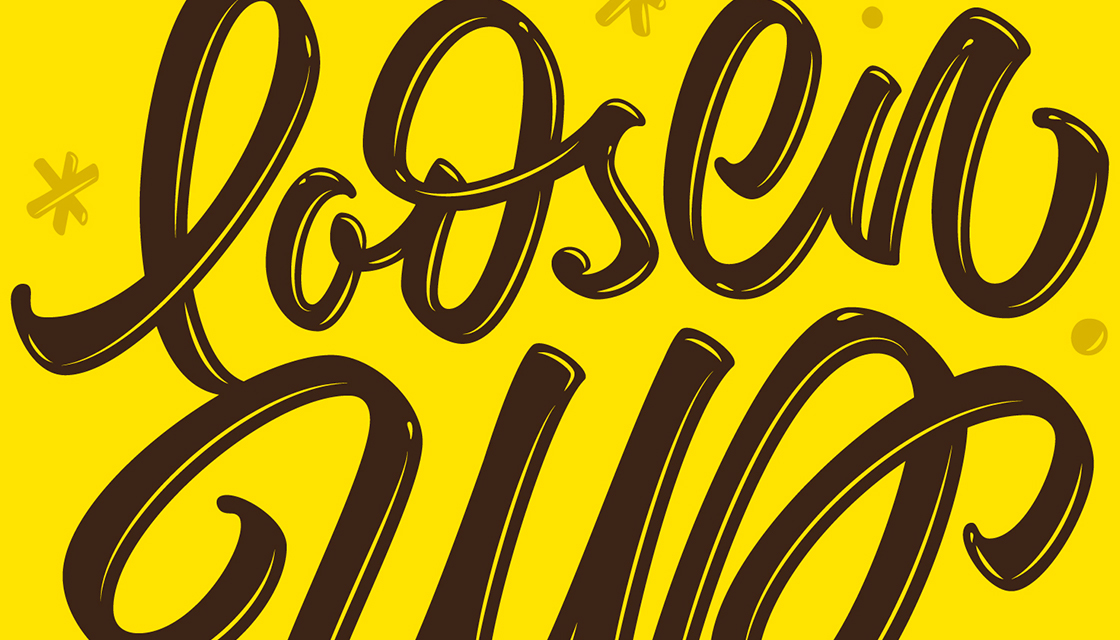
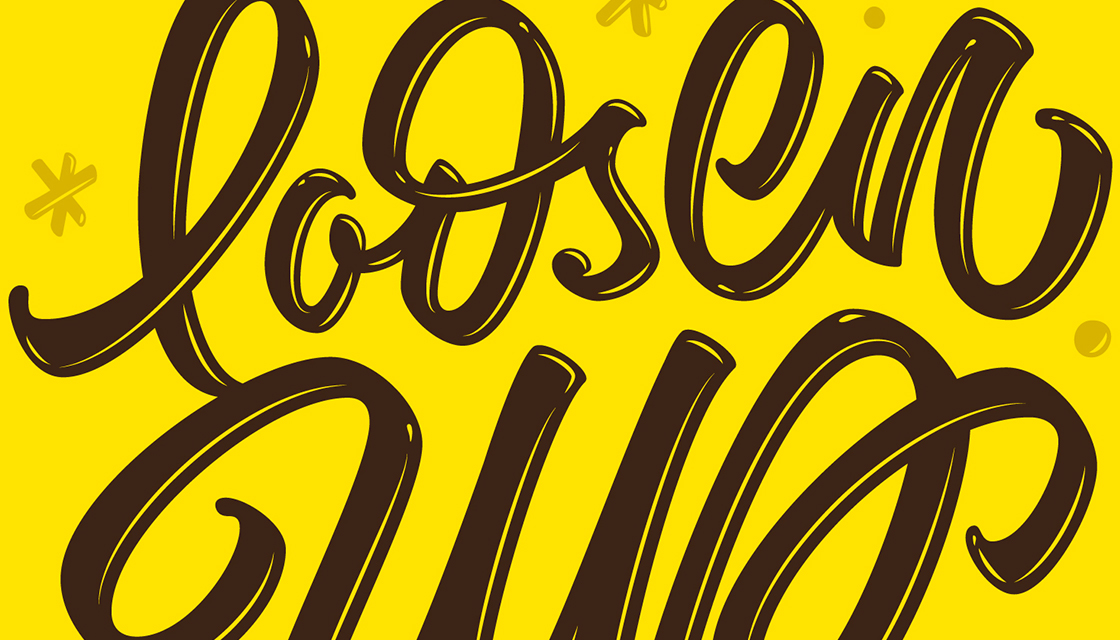
react-gtm, update email server, link style changes

diff --git a/client/src/pages/about.jsx b/client/src/pages/about.jsx
@@ -182,7 +182,7 @@ function LinkSection({ isMobile, title, src, data }) {
                   target="_blank"
                   rel="noopener noreferrer"
                 >
-                  Instagram
+                  <span className="underline">Instagram</span>
                 </a>
               </li>
               <li>
@@ -191,7 +191,7 @@ function LinkSection({ isMobile, title, src, data }) {
                   target="_blank"
                   rel="noopener noreferrer"
                 >
-                  Behance
+                  <span className="underline">Behance</span>
                 </a>
               </li>
               <li>
@@ -200,7 +200,7 @@ function LinkSection({ isMobile, title, src, data }) {
                   target="_blank"
                   rel="noopener noreferrer"
                 >
-                  Dribbble
+                  <span className="underline">Dribbble</span>
                 </a>
               </li>
             </ul>
@@ -253,7 +253,7 @@ function LinkSection({ isMobile, title, src, data }) {
                 target="_blank"
                 rel="noopener noreferrer"
               >
-                Instagram
+                <span className="underline">Instagram</span>
               </a>
             </li>
             <li>
@@ -262,7 +262,7 @@ function LinkSection({ isMobile, title, src, data }) {
                 target="_blank"
                 rel="noopener noreferrer"
               >
-                Behance
+                <span className="underline">Behance</span>
               </a>
             </li>
             <li>
@@ -271,7 +271,7 @@ function LinkSection({ isMobile, title, src, data }) {
                 target="_blank"
                 rel="noopener noreferrer"
               >
-                Dribbble
+                <span className="underline">Dribbble</span>
               </a>
             </li>
           </ul>
@@ -437,12 +437,11 @@ function Signature({ isMobile }) {
                 marginBottom: theme.sizes.spacingV3
               }}
             >
-              Thank you for reading a bit about my process. If you have a
-              project consideration or just have a question, I'd be glad to
-              help...{" "}
+              Thank you for reading a bit about my process. If you want to work
+              together or just have a general question, I'd be glad to help!{" "}
               <Link to="/contact" onClick={() => window.scrollTo(0, 0)}>
                 {" "}
-                Come say hi.
+                <span className="underline">Get in touch</span>
               </Link>
             </p>
           </div>
@@ -512,12 +511,11 @@ function Signature({ isMobile }) {
                 marginBottom: theme.sizes.spacingV3 + 10
               }}
             >
-              Thank you for reading a bit about my process. If you have a
-              project consideration or just have a question, I'd be glad to
-              help...{" "}
+              Thank you for reading a bit about my process. If you want to work
+              together or just have a general question, I'd be glad to help!{" "}
               <Link to="/contact" onClick={() => window.scrollTo(0, 0)}>
                 {" "}
-                Come say hi.
+                <span className="underline">Get in touch</span>
               </Link>
             </p>
           </div>

diff --git a/client/src/App.css b/client/src/App.css
@@ -9,7 +9,7 @@ textarea {
   height: 40px;
   font-family: "PT Serif", serif;
   font-size: 19px;
-  margin-bottom: 25px;
+  margin-bottom: 30px;
   width: 448px;
   box-sizing: border-box;
   padding-left: 10px;
@@ -86,6 +86,7 @@ ul {
 a {
   color: #61512d;
   text-decoration: none;
+  transition: 0.2s ease-in-out;
 }
 a:hover {
   color: #b9b9b9;
@@ -174,14 +175,11 @@ a:hover {
   margin-bottom: 60px;
 }
 
-.trans-shrink {
+.email-container {
   width: 100%;
-  padding: 165px 0px 134px 0px;
+  padding: 170px 0px 134px 0px;
   transition: width 0.4s;
   transition-timing-function: ease-in-out;
-}
-.trans-shrink:hover {
-  width: 85%;
 }
 
 .trans-fade {
@@ -195,7 +193,7 @@ a:hover {
 }
 
 .thumbnail:hover {
-  transform: scale(1.06);
+  transform: scale(1.05);
   outline: 4px solid black;
 }
 
@@ -215,14 +213,11 @@ a:hover {
 }
 
 @media (max-width: 925px) {
-  .trans-shrink {
+  .email-container {
     padding: 185px 5px 165px 5px;
     width: calc(100% - 10px);
   }
 
-  .trans-shrink:hover {
-    width: calc(100% - 10px);
-  }
   .contact-container {
     width: 325px;
     margin: 0 auto;
@@ -242,4 +237,8 @@ a:hover {
 ::-moz-selection {
   background-color: #b9b9b9;
   color: #fff;
+}
+
+.underline {
+  border-bottom: 1.2px dotted currentColor;
 }

diff --git a/client/src/pages/work.jsx b/client/src/pages/work.jsx
@@ -70,9 +70,10 @@ export default function Work() {
           style={{
             color: theme.colors.black,
             textAlign: alignLeft ? "left" : "center",
-            marginTop: 13,
+            marginTop: 7,
             marginBottom: 0,
-            lineHeight: 1
+            fontSize: 17,
+            lineHeight: 1.5
           }}
         >
           {title}
@@ -82,7 +83,7 @@ export default function Work() {
             textAlign: alignLeft ? "left" : "center",
             marginTop: 0,
             fontStyle: "italic",
-            fontSize: 17,
+            fontSize: 18,
             color: theme.colors.grey,
             letterSpacing: 0
           }}
@@ -158,8 +159,10 @@ export default function Work() {
           lineHeight: "44px"
         }}
       >
-        The strategic design studio of
-        <span style={{ color: theme.colors.grey }}> Kade Tyler</span>
+        The strategic design studio of{" "}
+        <Link to="/about" onClick={() => window.scrollTo(0, 0)}>
+          <span className="underline">Kade Tyler</span>
+        </Link>
         &mdash;specializing in
         <br />
         thoughtful visual identities &amp; custom lettering.

diff --git a/client/src/components/Footer.jsx b/client/src/components/Footer.jsx
@@ -19,13 +19,13 @@ export default function Footer() {
             margin: "0 auto",
             backgroundColor: theme.colors.light
           }}
-          className={"trans-shrink"}
+          className={"email-container"}
         >
           <p
             style={{
               fontSize: width > theme.breakpoints.mobile ? "2.8em" : "2.4em",
               fontWeight: "bold",
-              marginBottom: 20
+              marginBottom: 30
             }}
           >
             hi@ktype.xyz
@@ -33,13 +33,13 @@ export default function Footer() {
           <p
             style={{
               fontFamily: theme.fonts.sans,
-              letterSpacing: 6,
+              letterSpacing: 4,
               fontWeight: 300,
               color: theme.colors.black,
-              fontSize: width > theme.breakpoints.mobile ? 18 : 15
+              fontSize: width > theme.breakpoints.mobile ? 20 : 18
             }}
           >
-            LET'S START A PROJECT
+            LET'S BUILD, <strong>JUST REACH OUT!</strong>
           </p>
         </div>
       </a>

diff --git a/client/src/pages/contact.jsx b/client/src/pages/contact.jsx
@@ -52,7 +52,12 @@ function Contact(props) {
       <p>
         If you have a question, inquiry, or just want to say hi, you can write
         me at <br></br>
-        <a href="mailto:hi@ktype.xyz">hi@ktype.xyz</a> or use the form below.
+        <a href="mailto:hi@ktype.xyz" className="underline">
+          hi@ktype.xyz
+        </a>{" "}
+        or use the form below.
+        <br></br>
+        <br></br>I'm quick to respond, so we'll be in touch soon!
       </p>
       <form
         onSubmit={handleSubmit}
@@ -64,7 +69,7 @@ function Contact(props) {
       >
         <div className="contact-subcontainer">
           <div>
-            <label for="name">Full Name: *</label>
+            <label for="name"> Full Name: *</label>
             <br />
             <input
               value={name}

diff --git a/client/src/components/BarLink.jsx b/client/src/components/BarLink.jsx
@@ -16,12 +16,12 @@ const BarLink = ({ text, to }) => {
       <div
         style={{
           transition: "background-color 0.4s, color 0.2s",
-          backgroundColor: isHover ? theme.colors.brown : theme.colors.white
+          backgroundColor: isHover ? theme.colors.white : theme.colors.brown
         }}
       >
         <h2
           style={{
-            color: isHover ? theme.colors.white : theme.colors.brown,
+            color: isHover ? theme.colors.brown : theme.colors.white,
             textAlign: "center",
             padding: 50,
             paddingLeft: width > theme.breakpoints.mobile ? 50 : 10,

diff --git a/client/src/App.js b/client/src/App.js
@@ -16,10 +16,19 @@ import Contact from "./pages/contact";
 import Work from "./pages/work";
 import Success from "./pages/success";
 import theme from "./theme";
-// Google Analytics
+// Import Google Tag Manager
+import TagManager from "react-gtm-module";
+// Import Google Analytics
 import ReactGA from "react-ga";
+
+// Initialize Google Analytics
 ReactGA.initialize("UA-155272033-1");
 ReactGA.pageview(window.location.pathname + window.location.search);
+// Initialize Google Tag Manager
+const tagManagerArgs = {
+  gtmId: "GTM-TTFHHDC"
+};
+TagManager.initialize(tagManagerArgs);
 
 function App(props) {
   return (

diff --git a/server.js b/server.js
@@ -8,9 +8,9 @@ const morgan = require("morgan");
 const app = express();
 
 const transporter = nodemailer.createTransport({
-  service: "Hotmail",
+  service: "gmail",
   auth: {
-    user: "darbot9002@hotmail.com",
+    user: "hi@ktype.xyz",
     pass: process.env.EMAIL_PASSWORD
   }
 });
@@ -25,8 +25,8 @@ function generateContactEmail({
   priceRange
 }) {
   return {
-    from: "darbot9002@hotmail.com",
-    to: dev ? "darzaccaro@gmail.com" : "hi@ktype.xyz",
+    from: "hi@ktype.xyz",
+    to: dev ? "hi@ktype.xyz",
     subject: `New Form Submission from ${name}`,
     text: `
     Name: ${name}\n

diff --git a/client/src/components/WorkTemplateC.jsx b/client/src/components/WorkTemplateC.jsx
@@ -49,7 +49,10 @@ export default function WorkTemplateA({ title, description, data }) {
                 key={i}
                 src={e.img.src}
                 alt={e.img.alt}
-                style={{ marginBottom: theme.sizes.spacingV2, width: "100%" }}
+                style={{
+                  marginBottom: theme.sizes.spacingV2,
+                  width: "100%"
+                }}
               />
             );
           } else if (e.txt) {

diff --git a/client/src/pages/loosenUp.jsx b/client/src/pages/loosenUp.jsx
@@ -9,7 +9,7 @@ export default function LoosenUp() {
       data={[
         {
           img: {
-            src: "/loosen_up/loosenup.jpg",
+            src: "/loosen_up/loosen-up-final.jpg",
             alt:
               "Brown handlettering on a yellow background that reads 'Loosen Up'"
           }
